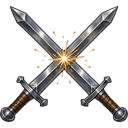
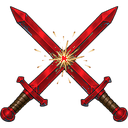
Duel marker in crimson, a little larger, so crossed swords stand out on the map
Claude-Session: https://claude.ai/code/session_01VCgb1BHiQMmXhDRgRP8RCx

Changed region(s): [[0.0938, 0.0312, 0.9375, 0.8438], [0.875, 0.8125, 1.0, 0.9688], [0.0, 0.8125, 0.125, 0.9688]]

diff --git a/sim/FantasyWorld.Web/wwwroot/js/world.js b/sim/FantasyWorld.Web/wwwroot/js/world.js
@@ -197,7 +197,7 @@ async function showYear(year) {
             lift(maze.at, 0.02), maze.great ? 85 : 60, () => setHash({ panel: `labyrinth/${id(maze.ref)}` }), "labyrinths");
     for (const fight of s.fights)
         // Crossed swords for a duel, crossed banners for a battle between nations; one still raging pulses (the owner, 2026-10-29).
-        label(`<span class="${fight.underWay ? "live" : "past"}">` + marker(fight.kind === "duel" ? "duel" : "battle", fight.kind === "duel" ? 30 : 38, `${fight.underWay ? "Under way" : "Fought"}: a ${fight.kind}`)
+        label(`<span class="${fight.underWay ? "live" : "past"}">` + marker(fight.kind === "duel" ? "duel" : "battle", fight.kind === "duel" ? 34 : 38, `${fight.underWay ? "Under way" : "Fought"}: a ${fight.kind}`)
             + `</span>`, "badge", lift(fight.at, 0.02), fight.underWay ? 90 : 75,
             () => setHash({ panel: `fight/${fight.eventId}` }), "fights");
     for (const place of s.settlements)

diff --git a/sim/FantasyWorld.Web/wwwroot/css/site.css b/sim/FantasyWorld.Web/wwwroot/css/site.css
@@ -256,7 +256,7 @@ p.known { font-style: italic; }
 .label .mk { display: inline-block; vertical-align: middle; object-fit: contain; }
 .label.realm .mk { margin: -4px 0; }
 .label.army .mk { margin: -3px 4px -3px -4px; }
-.past .mk { filter: saturate(.55) brightness(.92); }
+.past .mk { filter: saturate(.8) brightness(.95) drop-shadow(0 0 1px #fff); }
 .beast-mark.legend .mk { filter: drop-shadow(0 0 5px rgba(255, 120, 40, .95)); }
 .beast-mark.asleep .mk { filter: grayscale(.85) brightness(.85); opacity: .85; }
 .wonder-pin .mk { filter: drop-shadow(0 0 6px rgba(255, 214, 120, .9)); cursor: pointer; }
